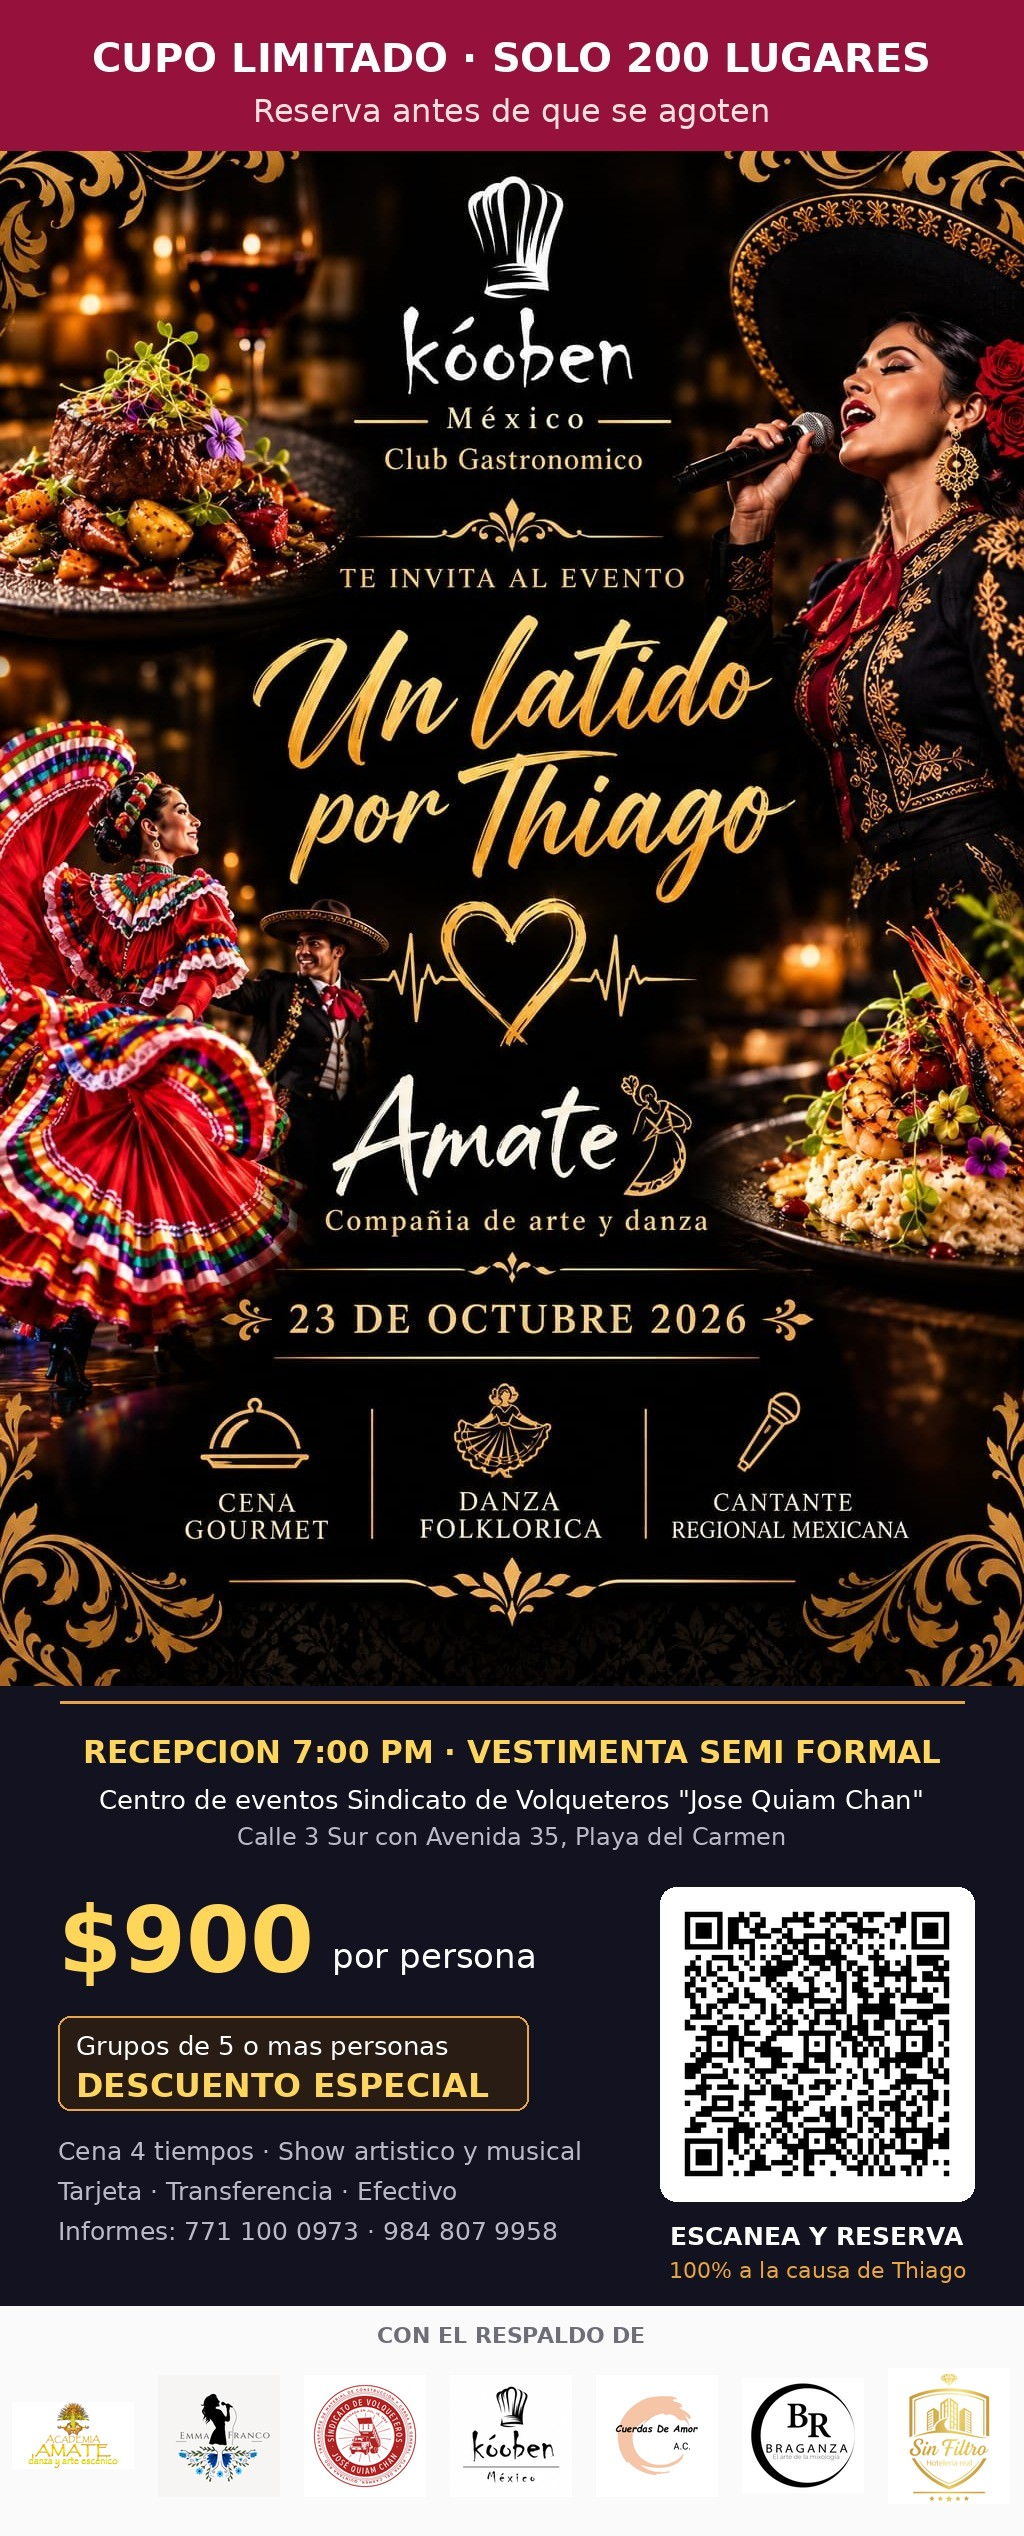
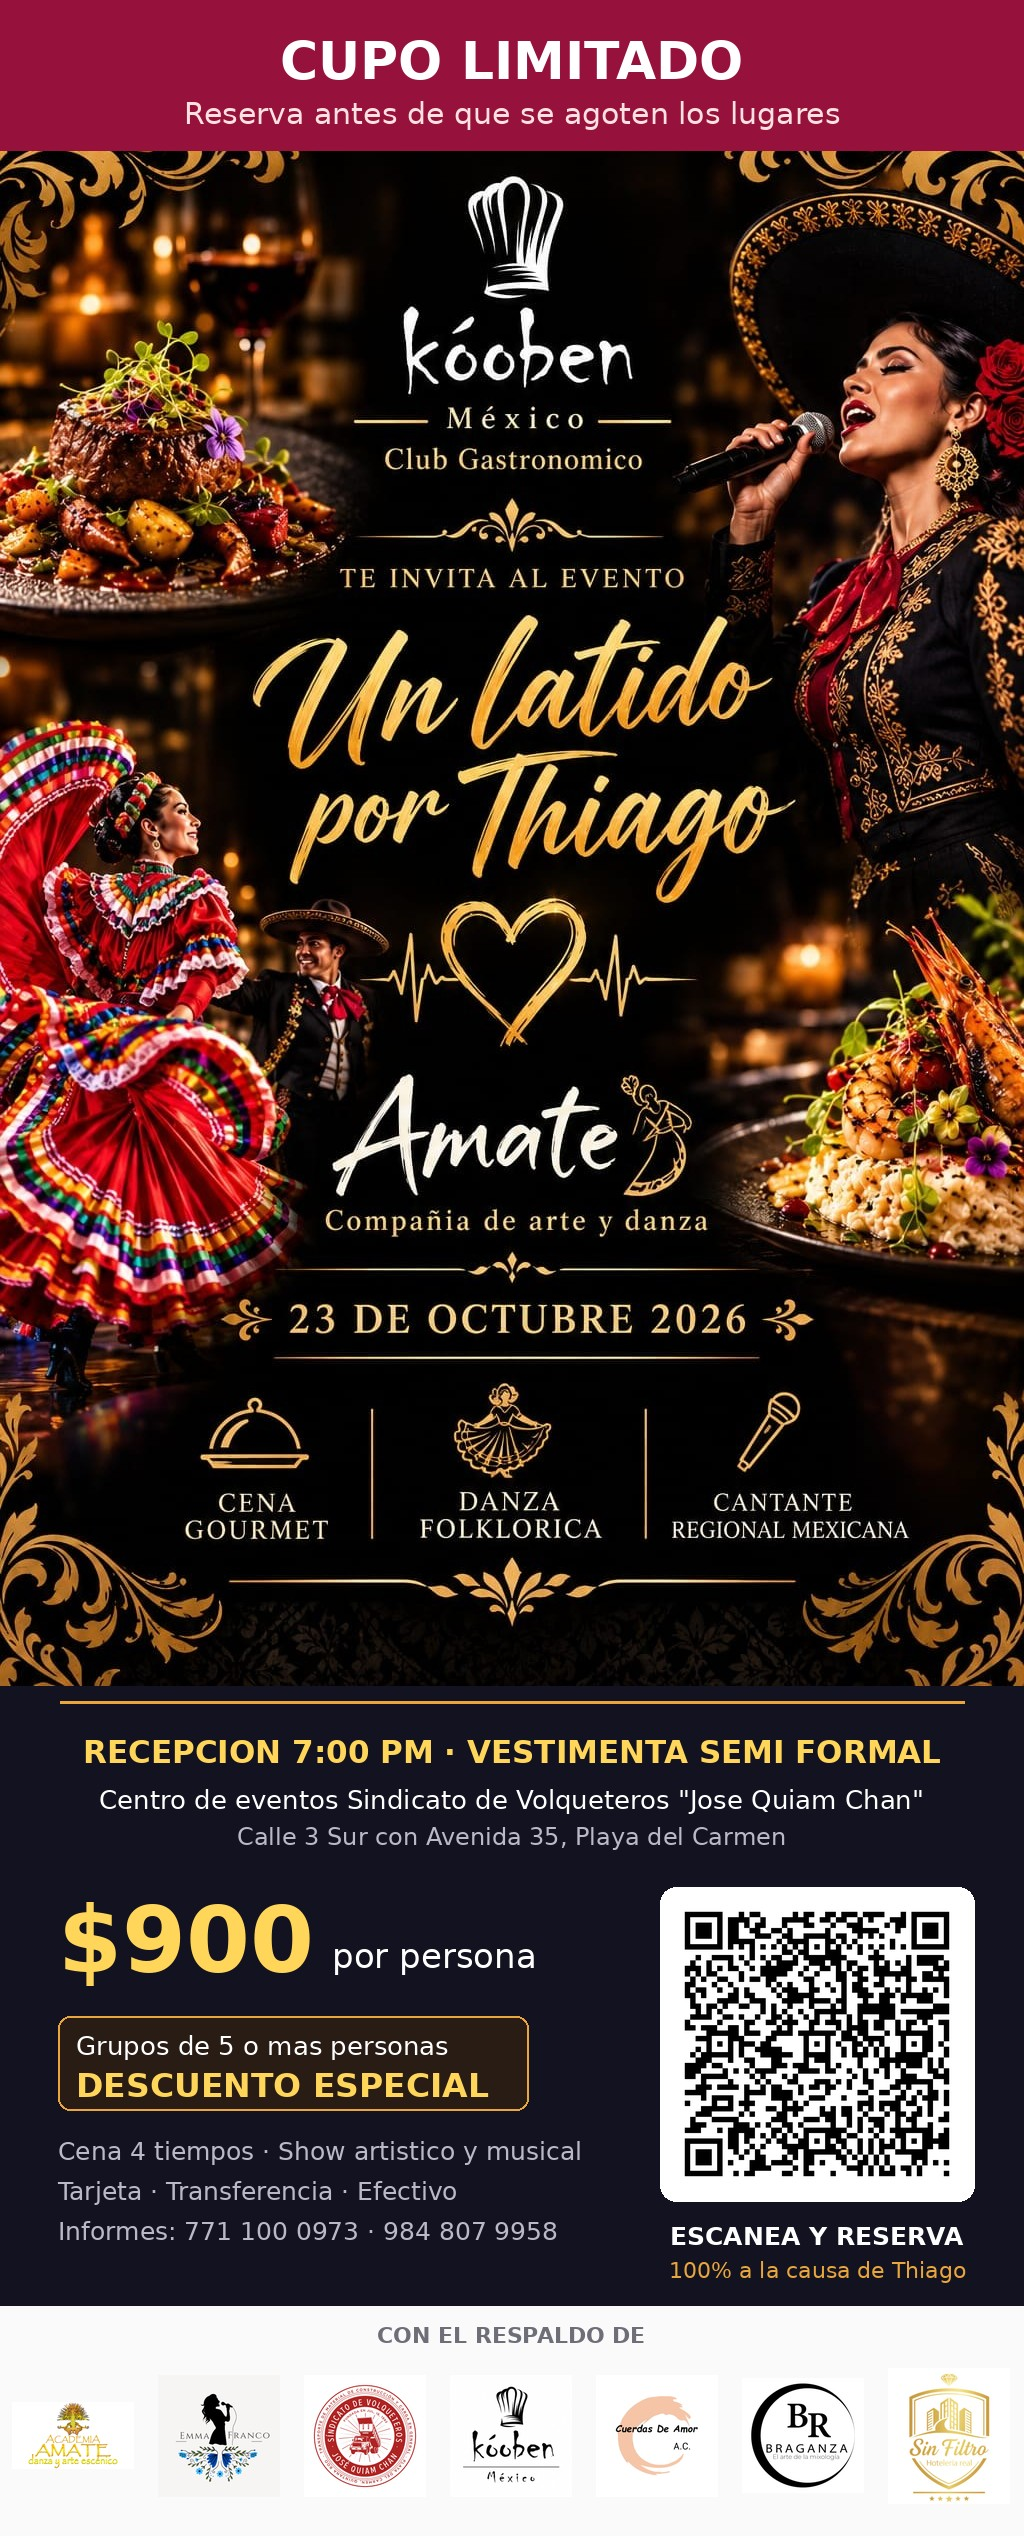
Posters integrados a la pagina, galeria de gala, barra de cupo limitado, cuenta regresiva y flyers de venta

Changed region(s): [[0.0938, 0.0, 0.9062, 0.0623]]

diff --git a/index.html b/index.html
@@ -10,7 +10,7 @@
 <div style="background:linear-gradient(90deg,#96123c,#d4145a,#96123c); color:#fff;
             text-align:center; padding:10px 14px; font-weight:bold; letter-spacing:.5px;
             font-size:.95em; position:sticky; top:0; z-index:999;">
-    Cupo limitado · Solo 200 lugares · <span id="diasRestantes"></span>
+    Cupo limitado · <span id="diasRestantes"></span>
 </div>
     <!-- Hero Section -->
     <section class="hero">
